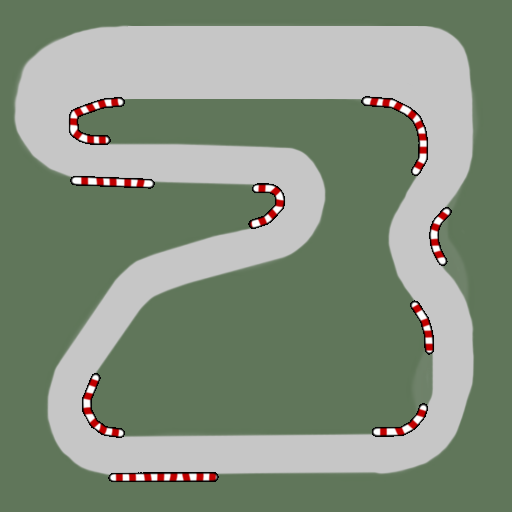
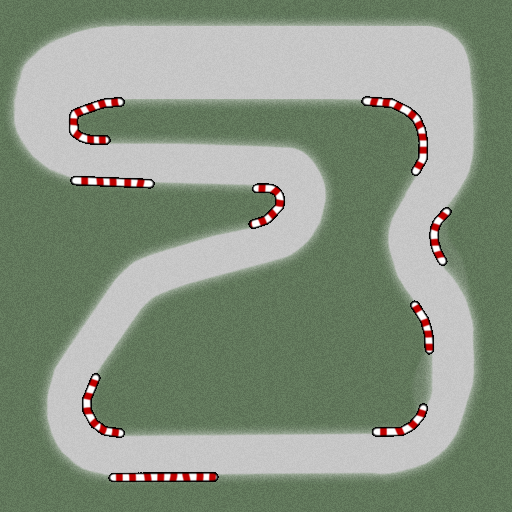
Updated track texture, added dirt to get pixels

diff --git a/Assets/Scripts/VehicleController.cs b/Assets/Scripts/VehicleController.cs
@@ -63,6 +63,7 @@ public class VehicleController : MonoBehaviour
     public float test_dampeningForceMult = 0.1f;
 
     public float torqueAssistMult = 0;
+    public float torqueAssistStraighten = 0;
 
     void Start()
     {
@@ -159,9 +160,9 @@ public class VehicleController : MonoBehaviour
         {
             float amount = rb.angularVelocity.y;
 
-            float counteractTorque = steerInput == 0 ? -amount * 5000 : 0;
+            float straightenTorque = steerInput == 0 ? -amount * torqueAssistStraighten : 0;
 
-            rb.AddRelativeTorque(Vector3.up * (steerInput * torqueAssistMult + counteractTorque));
+            rb.AddRelativeTorque(Vector3.up * (steerInput * torqueAssistMult + straightenTorque));
 
         }
     }
@@ -170,16 +171,16 @@ public class VehicleController : MonoBehaviour
     {
         Color c = GetColorFromTexture(hit);
 
-        if (c.g == c.r && c.r == c.b) // no color > is tarmac
+        if (c.g > c.r && c.g > c.b) // if green is dominant, it's grass
         {
-            //Debug.Log("TARMAC!");
-            return 1;
-        }
-        else
-        {
-            //Debug.Log("Grass");
             return 0.5f;
         }
+        else if (c.r > c.g) // else if red is higher, it's dirt
+        {
+            return 0.5f;
+        }
+        else // if grayscale, it's tarmac
+            return 1;
     }
 
     public Color GetColorFromTexture(RaycastHit hit)
